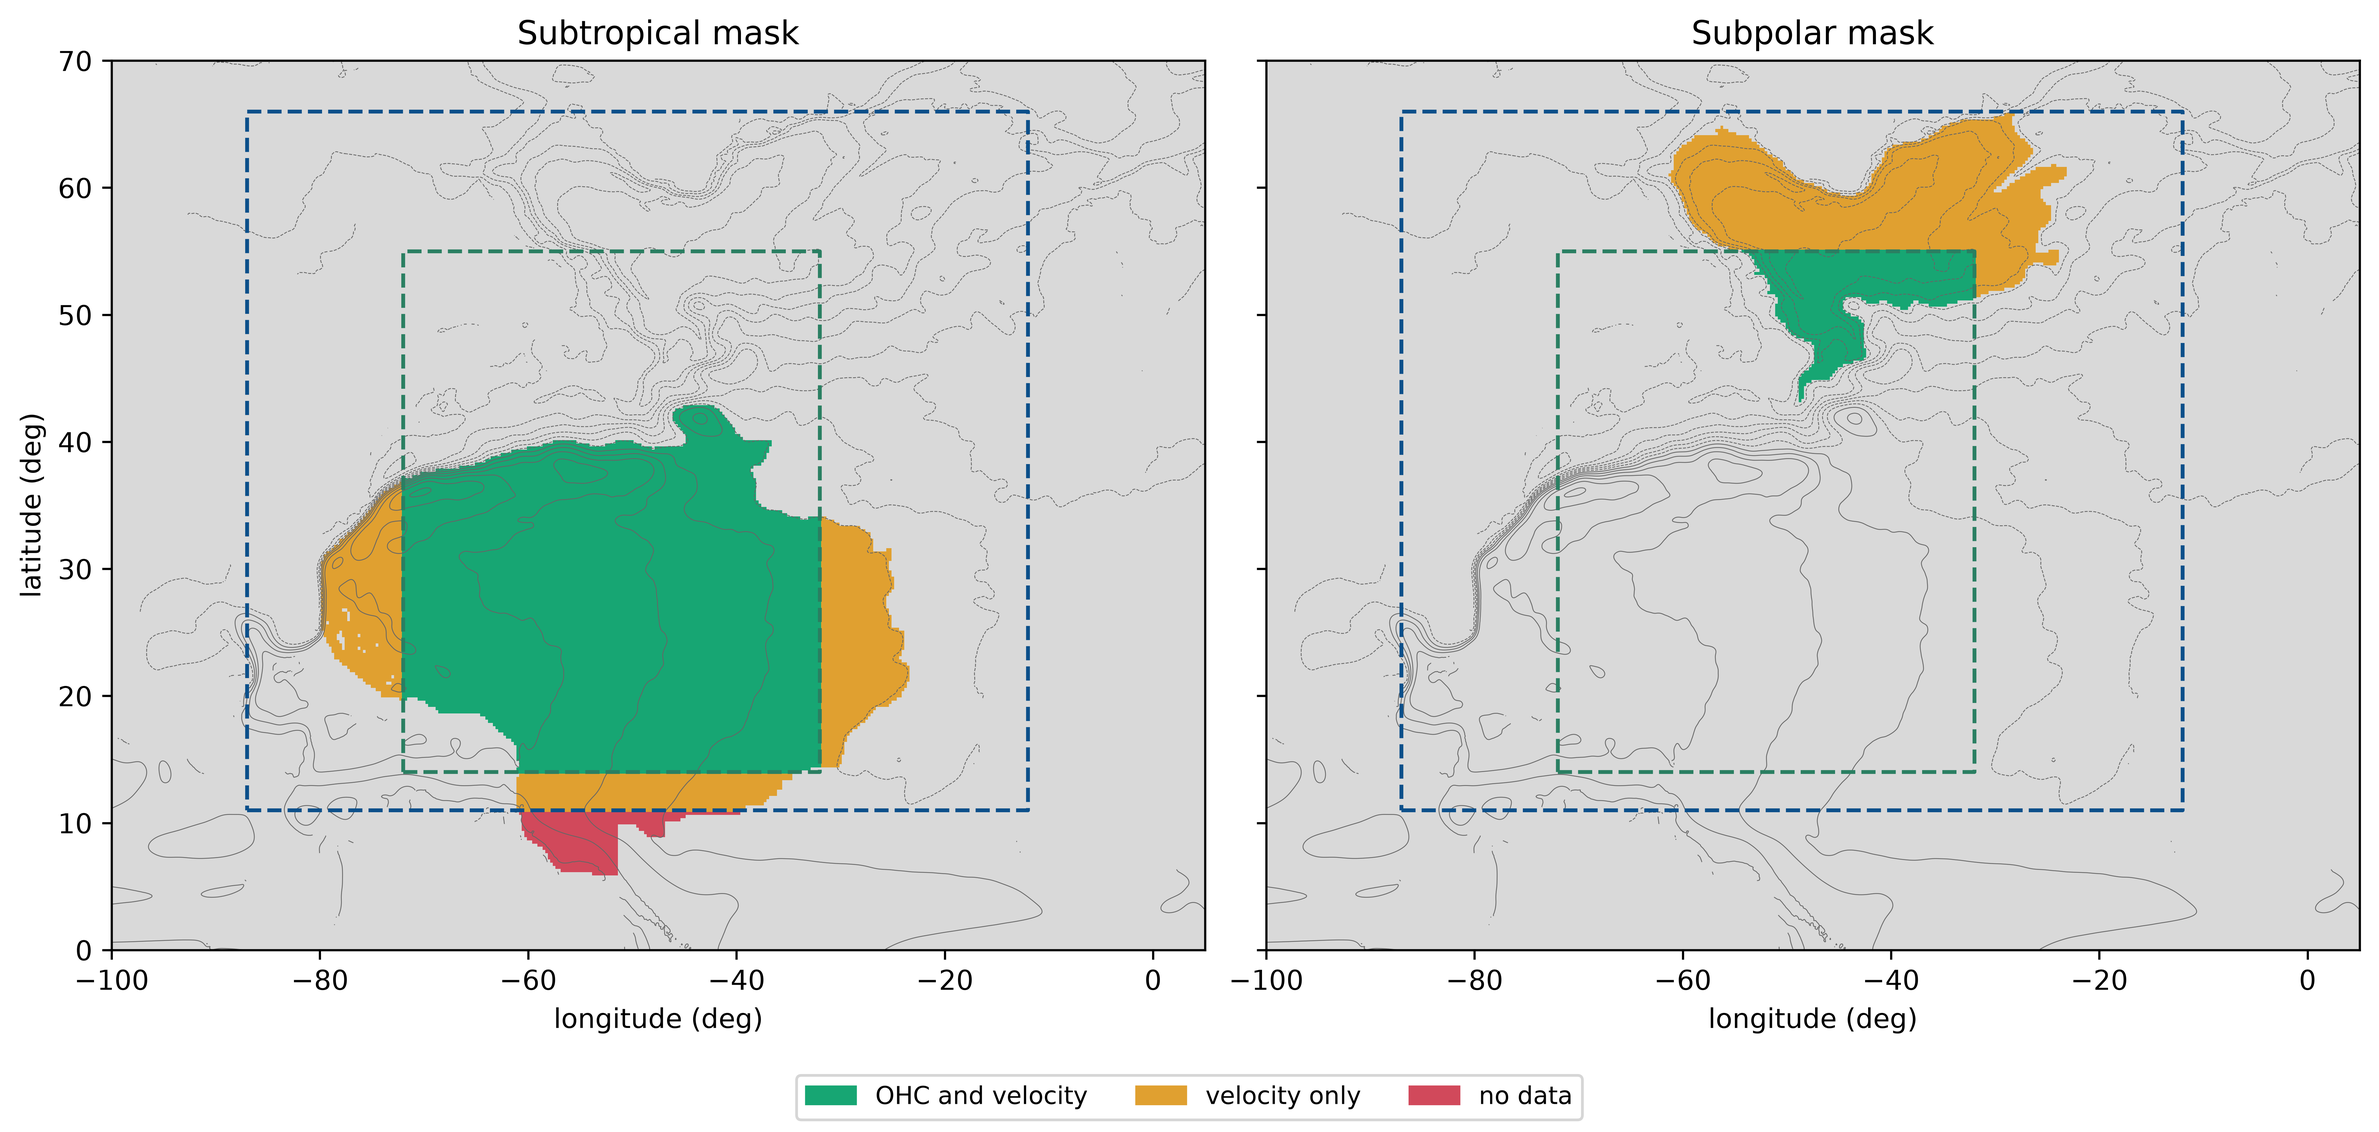
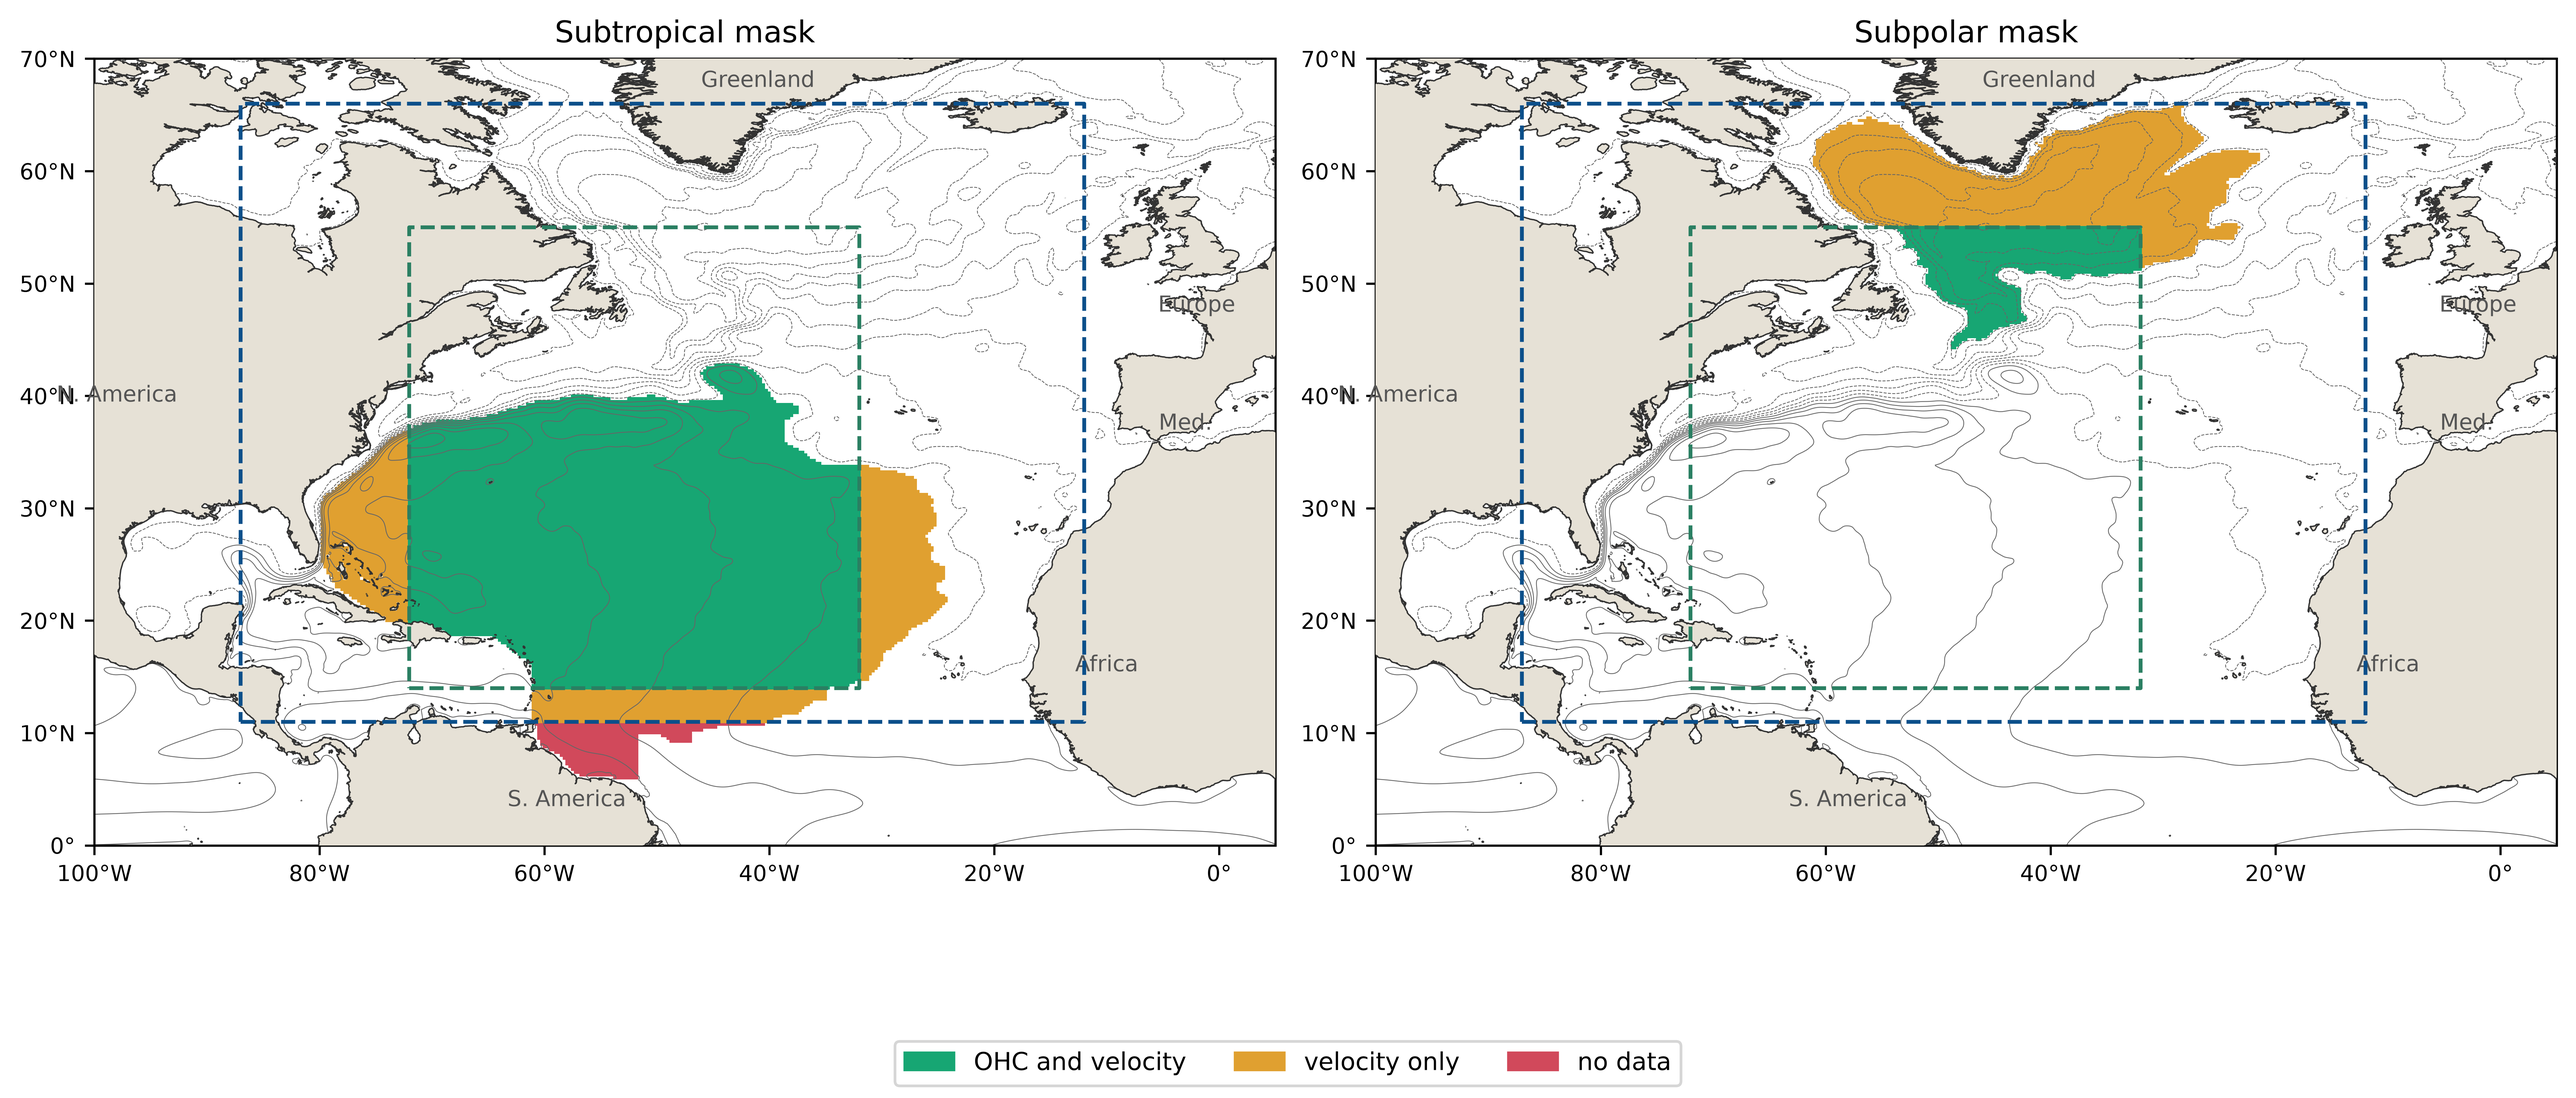
gyre_masks: full 1993-2025 mean as primary reference period; land, coastlines and place names on the maps

diff --git a/code/osim/gyre_mask.py b/code/osim/gyre_mask.py
@@ -42,6 +42,8 @@ JET = dict(lat=(33, 46), lon=(-75, -35))
 VEL = dict(lat=(11, 66), lon=(-87, -12))
 OHC = dict(lat=(14, 55), lon=(-72, -32))
 BARRIER_S, TROUGH_WEST, MED_LON = (5, 28), -61.0, -5.6
+PLACES = [(-98, 40, "N. America"), (-58, 4, "S. America"), (-10, 16, "Africa"), (-2, 48, "Europe"), (-41, 68, "Greenland"),
+          (-3, 37.5, "Med.")]
 MARGINAL = [(-100, 5), (-100, 31), (-81.5, 31), (-80, 25.5), (-78.5, 23), (-74, 20), (-68.5, 18.5), (-64.5, 18.5),
             (-61, 16), (-61, 5)]
 
@@ -105,33 +107,51 @@ def spg_closed(h, lat, lon, seed=SPG["seed"]):
     return c, out
 
 
-def plot_masks(ds, boxes, figsize=(10, 6.6)):
-    """Subtropical and subpolar masks over mean SSH, with the plain closed contour, boxes and velocity domain."""
+def _geo(ax):
+    """Land, coast, borders, place names and degree ticks on a PlateCarree axis."""
+    import cartopy.crs as ccrs
+    import cartopy.feature as cfeature
+    from cartopy.mpl.ticker import LongitudeFormatter, LatitudeFormatter
+    pc = ccrs.PlateCarree()
+    ax.set_extent([-100, 5, 0, 70], crs=pc)
+    ax.add_feature(cfeature.LAND.with_scale("10m"), facecolor="#e6e1d6", zorder=3)
+    ax.add_feature(cfeature.COASTLINE.with_scale("10m"), edgecolor="#333333", lw=.5, zorder=4)
+    ax.set_xticks(np.arange(-100, 6, 20), crs=pc)
+    ax.set_yticks(np.arange(0, 71, 10), crs=pc)
+    ax.xaxis.set_major_formatter(LongitudeFormatter())
+    ax.yaxis.set_major_formatter(LatitudeFormatter())
+    ax.tick_params(labelsize=8)
+    for x, y, n in PLACES:
+        ax.text(x, y, n, transform=pc, fontsize=8, color="#555555", ha="center", va="center", zorder=5)
+    return pc
+
+
+def plot_masks(ds, boxes, figsize=(10.5, 7.4)):
+    """Subtropical and subpolar masks over mean SSH, with the plain closed contour, boxes and data domains."""
+    import cartopy.crs as ccrs
     import matplotlib.pyplot as plt
     from matplotlib.lines import Line2D
     from matplotlib.patches import Patch
     la, lo, h = ds.latitude.values, ds.longitude.values, ds.h.values
-    frame = lambda b, **k: ax.plot(np.array(b["lon"])[[0, 1, 1, 0, 0]], np.array(b["lat"])[[0, 0, 1, 1, 0]], **k)
-    fig, ax = plt.subplots(figsize=figsize, constrained_layout=True)
-    ax.set_facecolor("#d9d9d9")
-    ax.grid(False)
-    ax.contourf(lo, la, ds.stg.values.astype(float), [.5, 1.5], colors=["#d1495b"], alpha=.35)
-    ax.contourf(lo, la, ds.spg.values.astype(float), [.5, 1.5], colors=["#1f77c9"], alpha=.35)
-    ax.contour(lo, la, h, np.arange(-1.2, 1.5, .1), colors="#666666", linewidths=.35)
-    ax.contour(lo, la, ds.stg_plain.values.astype(float), [.5], colors="#222222", linewidths=1.2, linestyles="-.")
+    fig, ax = plt.subplots(figsize=figsize, subplot_kw=dict(projection=ccrs.PlateCarree()), constrained_layout=True)
+    pc = _geo(ax)
+    frame = lambda b, **k: ax.plot(np.array(b["lon"])[[0, 1, 1, 0, 0]], np.array(b["lat"])[[0, 0, 1, 1, 0]], transform=pc, zorder=6, **k)
+    ax.contourf(lo, la, ds.stg.values.astype(float), [.5, 1.5], colors=["#d1495b"], alpha=.35, transform=pc)
+    ax.contourf(lo, la, ds.spg.values.astype(float), [.5, 1.5], colors=["#1f77c9"], alpha=.35, transform=pc)
+    ax.contour(lo, la, h, np.arange(-1.2, 1.5, .1), colors="#666666", linewidths=.35, transform=pc)
+    ax.contour(lo, la, ds.stg_plain.values.astype(float), [.5], colors="#222222", linewidths=1.2, linestyles="-.", transform=pc)
     for k, b in boxes.items():
         frame(b, color="#222222", lw=1)
-        ax.text(b["lon"][0] + .6, b["lat"][1] - 2.4, f"Box {k[-1]}", fontsize=9, color="#222222")
+        ax.text(b["lon"][0] + .6, b["lat"][1] - 2.4, f"Box {k[-1]}", fontsize=9, color="#222222", transform=pc, zorder=6)
     frame(VEL, color="#0b4f8a", lw=1.4, ls="--")
     frame(OHC, color="#2a7f62", lw=1.4, ls="--")
-    ax.set(xlim=(-100, 5), ylim=(0, 70), xlabel="longitude (deg)", ylabel="latitude (deg)", aspect=1.22)
     ax.legend(handles=[Patch(color="#d1495b", alpha=.35, label="subtropical mask"), Patch(color="#1f77c9", alpha=.35, label="subpolar mask"),
                        Line2D([], [], color="#222222", ls="-.", label="plain closed contour"),
                        Line2D([], [], color="#222222", label="boxes A and B"),
                        Line2D([], [], color="#0b4f8a", ls="--", label="velocity domain"),
                        Line2D([], [], color="#2a7f62", ls="--", label="OHC field domain"),
                        Line2D([], [], color="#666666", lw=.5, label="mean SSH, 0.1 m interval")],
-              loc="lower left", fontsize=8, framealpha=.95)
+              loc="lower left", fontsize=8, framealpha=.95).set_zorder(7)
     return fig
 
 
@@ -149,25 +169,24 @@ def data_coverage(ds):
                 "area": a[ds[k].values > 0].sum()} for k in ("stg", "spg")}
 
 
-def plot_coverage(ds, figsize=(12, 6)):
+def plot_coverage(ds, figsize=(13, 6.2)):
     """Each gyre mask coloured by the data held there, over mean SSH contours."""
+    import cartopy.crs as ccrs
     import matplotlib.pyplot as plt
     from matplotlib.colors import ListedColormap
     from matplotlib.patches import Patch
     la, lo, h = ds.latitude.values, ds.longitude.values, ds.h.values
     v, o = inside(VEL, la, lo), inside(OHC, la, lo)
     col = ["#d1495b", "#e0a030", "#17a673"]
-    fig, ax = plt.subplots(1, 2, figsize=figsize, sharey=True, constrained_layout=True)
+    fig, ax = plt.subplots(1, 2, figsize=figsize, subplot_kw=dict(projection=ccrs.PlateCarree()), constrained_layout=True)
     for a, k, name in zip(ax, ("stg", "spg"), ("Subtropical mask", "Subpolar mask")):
+        pc = _geo(a)
         c = np.where(ds[k].values > 0, np.where(v & o, 2.0, np.where(v, 1.0, 0.0)), np.nan)
-        a.set_facecolor("#d9d9d9")
-        a.grid(False)
-        a.pcolormesh(lo[::3], la[::3], c[::3, ::3], cmap=ListedColormap(col), vmin=-.5, vmax=2.5, shading="auto", rasterized=True)
-        a.contour(lo, la, h, np.arange(-1.2, 1.5, .1), colors="#666666", linewidths=.3)
+        a.pcolormesh(lo[::3], la[::3], c[::3, ::3], cmap=ListedColormap(col), vmin=-.5, vmax=2.5, shading="auto", rasterized=True, transform=pc)
+        a.contour(lo, la, h, np.arange(-1.2, 1.5, .1), colors="#666666", linewidths=.3, transform=pc)
         for b, cl in ((VEL, "#0b4f8a"), (OHC, "#2a7f62")):
-            a.plot(np.array(b["lon"])[[0, 1, 1, 0, 0]], np.array(b["lat"])[[0, 0, 1, 1, 0]], color=cl, lw=1.4, ls="--")
-        a.set(xlim=(-100, 5), ylim=(0, 70), xlabel="longitude (deg)", title=name, aspect=1.22)
-    ax[0].set_ylabel("latitude (deg)")
+            a.plot(np.array(b["lon"])[[0, 1, 1, 0, 0]], np.array(b["lat"])[[0, 0, 1, 1, 0]], color=cl, lw=1.4, ls="--", transform=pc, zorder=6)
+        a.set_title(name, fontsize=11)
     fig.legend(handles=[Patch(color=col[2], label="OHC and velocity"), Patch(color=col[1], label="velocity only"),
                         Patch(color=col[0], label="no data")], loc="outside lower center", ncol=3, fontsize=9)
     return fig

diff --git a/code/osim/run_gyre_masks.py b/code/osim/run_gyre_masks.py
@@ -5,7 +5,7 @@ matplotlib.use("Agg")
 sys.path.insert(0, os.path.dirname(os.path.dirname(__file__)))
 from osim import gyre_mask as gm, osim_config as cfg
 
-Y0, Y1 = 1993, 2009
+Y0, Y1 = 1993, 2025
 OUT = os.path.join(cfg.OUT_DIR, "gyre_masks")
 zos = xr.open_mfdataset(sorted(glob.glob(os.path.join(cfg.GLORYS_DIR, "zos_monthly", "zos_monthly_natl_*.nc")))).zos.load()
 zos = zos.sortby("latitude")
@@ -56,7 +56,7 @@ for d in (-.10, -.05, .05, .10):
     m = gm.stg_jet(h, la, lo, c_j + d)[1]
     R.append(row("level", f"{d:+.2f}", "STG", c_j + d, m, stg))
     L.append(f"STG level {d:+.2f}: {desc(m)}; IoU with primary {iou(m, stg):.2f}")
-for a, b in ((1993, 2003), (2004, 2014), (2015, 2025), (1993, 2025)):
+for a, b in ((1993, 2009), (1993, 2003), (2004, 2014), (2015, 2025)):
     if a <= int(zos.time.dt.year.max()) and b <= int(zos.time.dt.year.max()):
         hp = period(a, b)
         cp, m = gm.stg_jet(hp, la, lo)
